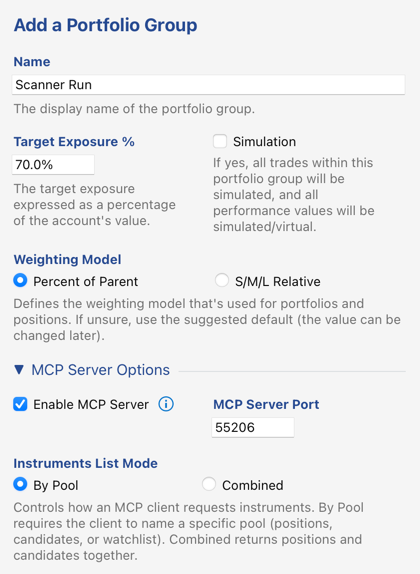
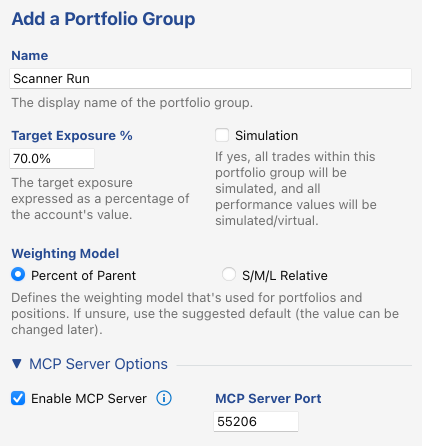
Updated skills and documentation

Changed region(s): [[0.031, 0.0874, 0.9595, 0.7578], [0.0, 0.787, 0.8667, 0.991], [0.031, 0.0291, 0.4643, 0.0583]]

diff --git a/doc/rating-loop/rating-loop.md b/doc/rating-loop/rating-loop.md
@@ -27,9 +27,7 @@ Options worth noting:
 
 - **Simulation** — all trades in this group are simulated. 
 - **Enable MCP Server** on port `55206` — this is the server the agent connects to (must match `.mcp.json`).
-- **Instruments List Mode: Combined** — the agent's `list_instruments` call returns positions and candidates together.
 - **Arm Ratings** — allows the agent's submitted ratings to actually drive target weights and close policies.
-- **Auto Delta Order Submission** is on. When on for a simulated portfolio group, delta orders are auto-executed (simulated at the current bid/ask price, honoring slippage as configured below).
 
 ## 2. Add the portfolios
 
@@ -60,9 +58,9 @@ Setting the Default Chart Range (left) to **5 days (15 min resolution)** gives t
 **Enable Rebalancing Orders** is off - we only buy and sell full positions; we don't rebalance/adjust open positions. **Trade on Adjust Ratings** is off. Buy/adjust is too weak a signal (or so we assume). **Force Trade on Strong Ratings** must be off. If it were on, InvMon would trade any Strong Buy or Strong Sell rating, even if all portfolio target slots are already filled. 
 
 
-### Order type, size & limit calculation
+### Order creation
 
-![Order Type, Size & Limit Calculation](assets/070-order-type.png)
+![Order Creation](assets/070-order-type.png)
 
 Defaults are fine here: adaptive orders, a 0.5% slippage cap, and trading restricted to regular trading hours. Slippage is relevant for simulation mode (will be used to calculate the estimated trade price - adjust the slippage to make the simulation more or less conservative in terms of achieved execution prices). The order type is not relevant for simulations.
 
@@ -72,11 +70,11 @@ Defaults are fine here: adaptive orders, a 0.5% slippage cap, and trading restri
 
 These policies close positions automatically and require an active TWS connection. The two **(MCP)** policies are what make the agent's ratings actionable: **Close on Neutral** and **Close on Counter-Rating** close a position when the agent downgrades it to Neutral or rates it against the position's direction. **EOD Auto-Close** flattens remaining positions 20 minutes before the session ends — this setup is intra-day.
 
-### Autonomous trading gates
+### Order execution
 
-![Autonomous Trading Gates](assets/090-autonomous-trading-gates.png)
+![Order Execution](assets/090-autonomous-trading-gates.png)
 
-Sanity limits every automatically created order must pass (fresh quote, tight spread, limited price deviation and exposure overshoot). **Hard Gates** is an important option for simulations - with the option on, if a gate fails, no delta order is created and no execution results. The autonomous-trading on/off switches themselves live in the group's *Targets & Rebalancing* dialog (step 1).
+**Auto-Submit Delta Orders in Simulation Mode** is on: the simulated group's delta orders are executed as soon as they are created (simulated at the current bid/ask price, honoring the slippage configured above). The fields below it are sanity limits a live order would have to pass before being transmitted (fresh quote, tight spread, limited price deviation). **Enforce Gates at Order Creation** is an important option for simulations - with the option on, if a gate fails, no delta order is created and no execution results.
 
 > Failing gates are recorded on their respective instrument. Instruments with continuously failing gates are basically untradable (in a timely fashion) under current market conditions. Consecutive runs of the market scanner will recycle those first.
 
@@ -84,8 +82,8 @@ Sanity limits every automatically created order must pass (fresh quote, tight sp
 
 ![MCP Server Options](assets/100-mcp-options.png)
 
-- **List Limit 10** — caps how many instruments `list_instruments` returns per call, keeping the agent's research fan-out bounded. In **Combined** mode (see above), `list_instruments` will return all of the portfolio's positions plus up to this number of candidates.
-- **Find Instruments Using Scanner** — a `list_instruments` call triggers the portfolios' saved market scanners first, so the agent always rates a fresh candidate set (see next step).
+- **List Limit 10** — caps how many instruments `list_instruments` returns per call, keeping the agent's research fan-out bounded. Called without a pool, as this agent does, `list_instruments` returns all of the portfolio's positions plus up to this number of candidates.
+- **Trigger Scanner** — a `list_instruments` call triggers the portfolios' saved market scanners first, so the agent always rates a fresh candidate set (see next step).
 - **Random List Order** — shuffles the returned list, a minor feature, potentially lowering rating bias.
 
 ## 4. Configure the market scanners
@@ -98,7 +96,7 @@ Each portfolio gets an IB market scanner that supplies its candidates: *Add from
 
 Both scan US *Listed/NASDAQ* corporate stocks by **Top %**, filtered to liquid names (average volume ≥ 2,000,000) that are shortable (shortable shares ≥ 2000), capped at 10 results with **Replace Existing** so the candidate pool rotates instead of growing. The only difference is the sort direction (the arrow next to *Variable*): descending for `Long` (top gainers), ascending for `Short` (top losers).
 
-**Don't run scanner – only save changes** stores the configuration without running it — the scans are executed later by the MCP server (via *Find Instruments Using Scanner*) whenever the agent lists instruments.
+**Don't run scanner – only save changes** stores the configuration without running it — the scans are executed later by the MCP server (via *Trigger Scanner*) whenever the agent lists instruments.
 
 ## 5. Run the agent
 

diff --git a/doc/market-scanner/market-scanner.md b/doc/market-scanner/market-scanner.md
@@ -28,7 +28,6 @@ Make a new portfolio group *just for scanning*. In the Portfolios panel, add a n
 ![Add a Portfolio Group](assets/010-add-portfolio-group.png)
 
 - **Enable MCP Server** on port `55206` — this is the little local connection your AI assistant talks to. Keep the port matching the one in this repo's `.mcp.json`.
-- **Instruments List Mode: By Pool** — the important one. The skill needs to address the *watchlist* by name, which only *By Pool* mode allows. In *Combined* mode there's no separate watchlist to point at, and the scan can't run.
 - **Simulation** — optional. Since the scan only records ratings and never trades, you don't need it; turn it on if you'd simply rather keep the whole group sandboxed.
 
 
@@ -58,7 +57,7 @@ Run the scan in the evening and it happily rates on the previous day's close ins
 ![MCP Server Options](assets/040-mcp-options.png)
 
 - **List Limit 10** — this is our batch size, the "10 at a time" from the top. It caps the watchlist at 10 names, and it's the size the scanner trims back to between bands. IB tops out around 50 rows per scan anyway (that's the whole reason for sweeping band by band), so 10 sits comfortably under the ceiling — and a small batch keeps your TWS market-data lines free, since every visible watchlist name uses one.
-- **Find Instruments Using Scanner** — must be **off**. Left on, InvMon would re-run the scanner behind the AI's back and wipe out the batch it just built. The skill checks for this and refuses to run rather than quietly corrupt the sweep.
+- **Trigger Scanner** — must be **off**. Left on, InvMon would re-run the scanner behind the AI's back and wipe out the batch it just built. The skill checks for this and refuses to run rather than quietly corrupt the sweep.
 - **Random List Order** — optional; shuffles each batch, which can take a little bias out of the ratings.
 
 
@@ -126,14 +125,13 @@ Most hiccups are a setup step that isn't quite right, and the scan usually tells
 | What you see | What it means | What to do |
 |---|---|---|
 | `run_scanner is not available.` | Your plan doesn't include the market scanner. | Upgrade to a paid plan. |
-| `run_scanner requires 'Find Instruments Using Scanner' to be OFF…` | That option is on and would clobber each batch. | Turn it off in *MCP Server Options* (step 3). |
+| `run_scanner requires 'Trigger Scanner' to be OFF…` | That option is on and would clobber each batch. | Turn it off in *MCP Server Options* (step 3). |
 | `Account is not connected; cannot run the scanner.` | TWS isn't running or isn't connected. | Start TWS and confirm the account connects. |
 | `The account's provider does not support market scanning.` | The portfolio isn't pointed at an IB account. | Point the group at your IB account. |
 | `A scanner run is already in progress for this portfolio.` | A scan (manual or from a previous call) is still running. | Wait for it to finish, then re-run. |
 | `Portfolio not found; specify portfolioId or portfolioName…` | The group holds more than one portfolio. | Name the portfolio when you start the skill, or keep the group to one. |
 | `Scanner timed out after 60 seconds.` | IB didn't answer in time. | Usually a blip — check the TWS connection and re-run. |
 | `This tool call is currently limited to the watchlist pool.` | On your plan the set-aside tools only touch watchlist names. | Expected — the scan only ever touches the watchlist. If you see it, something aimed the tools elsewhere. |
-| The AI reports a missing `watchlist` pool | The group is in *Combined* list mode. | Switch **Instruments List Mode** to *By Pool* (step 1). |
 | Bands come back empty that shouldn't | Either a price filter got baked into the saved scan, or those names were cleared earlier this session. | Remove the base price filter (step 4). For the second cause, see below. |
 
 **Why a second run in the same session finds less.** Once the scanner clears a name out during a run, InvMon keeps it out for the rest of the session so a later band won't waste time re-rating something already dropped. Within one run that's exactly what you want. Across two runs it means the second one is working from a thinner universe — so **restart InvMon before a fresh scan**, or bring individual names back via *Restore Hidden Instrument…* (in the Delete menu).

diff --git a/.claude/skills/market-scanner/SKILL.md b/.claude/skills/market-scanner/SKILL.md
@@ -44,7 +44,6 @@ missing prerequisite.
     license includes scanner access.
 - **An IB account, connected** — the sweep runs IB market scans; other providers
     do not support scanning.
-- **By-Pool MCP list mode** — so the `watchlist` pool is addressable.
 - **Watchlist market scanner configured** (in the portfolio's scanner
     settings): the base query the sweep builds on — scan code
     (e.g. *Top % Gainers*), location (e.g. NASDAQ / `STK.US.MAJOR`), and base
@@ -52,7 +51,7 @@ missing prerequisite.
     layered on top of this per batch.
 - **Watchlist replace mode ON** — each new band trims the previous band's
     non-hidden names down to the pool's target size; hidden winners survive.
-- **"Find Instruments Using Scanner" OFF** — otherwise a later
+- **"Trigger Scanner" OFF** — otherwise a later
     `list_instruments` call would re-scan with the base config and clobber your
     batch. `run_scanner` refuses to run while this is on.
 - **Watchlist scanner count ≈ your batch size** (e.g. 40, or less if TWS
@@ -67,7 +66,8 @@ missing prerequisite.
 
 Reused from `rating-loop` (see that skill for full detail):
 
-- `list_instruments(pool, portfolioId?, portfolioName?)` — hidden instruments
+- `list_instruments(pool?, portfolioId?, portfolioName?)` — pass `pool: "watchlist"`
+  for the watchlist. Hidden instruments
   are **excluded**, so your set-aside winners never come back in a listing. You
   mostly won't need this during the sweep (see below).
 - `get_price_history(instrumentId, period?)` — historical series; a short
@@ -93,7 +93,7 @@ New for this skill:
     portfolio.
   - Returns `{pool, priceAbove?, priceBelow?, count, instruments:[...]}`, or an
     `{error}`: no scanner license, account not connected, the account's provider
-    does not support scanning, "Find Instruments Using Scanner" is on, a scan is
+    does not support scanning, "Trigger Scanner" is on, a scan is
     already running, ambiguous portfolio, or scanner timeout.
   - **Work the loop off this return** — the `instruments` array *is* your batch.
     You do not need a separate `list_instruments` call during the sweep.

diff --git a/.claude/skills/portfolio-rating/SKILL.md b/.claude/skills/portfolio-rating/SKILL.md
@@ -29,14 +29,13 @@ exactly as described in `rating-loop`; the essentials:
 - `list_portfolios()` - returns the portfolios of this server's portfolio group:
   `{id, name}` per portfolio.
 
-- `list_instruments(portfolioId?, portfolioName?)` - the instruments to analyze.
+- `list_instruments(portfolioId?, portfolioName?, pool?)` - the instruments to analyze.
   Always pass the portfolio for this skill (see **Arguments**); without one the tool
   returns instruments across *every* portfolio in the group, which is not what this
   skill is for. `portfolioName` is the simple portfolio name, unique within the
-  group. In **Combined** MCP list mode positions and candidates come back together;
-  in **By Pool** mode the tool takes a required `pool` argument (`positions`,
-  `candidates` or `watchlist`) - rate the pool the user named, `positions` by
-  default.
+  group. Without `pool`, positions and candidates come back together; with it
+  (`positions`, `candidates` or `watchlist`), only that pool. If the user named a
+  pool, pass it; otherwise leave `pool` out.
 
   Returned per instrument: `id, symbol, securityName, instrumentType, currency,
   exchange, note, lastUpdate, priceTarget, priceTargetDate, rating, lastTradePrice,
@@ -103,8 +102,8 @@ is the display label for the same value (`Buy/adjust` reads back as `Buy Adjust`
   research - this skill rates one portfolio, and guessing wastes a full research
   pass on the wrong set. The user may answer "all", in which case rate every
   portfolio in the group and keep the summary grouped per portfolio.
-- The user may also name a **pool** (positions, candidates, watchlist) in a By-Pool
-  group. Default to the positions pool.
+- The user may also name a **pool** (positions, candidates, watchlist); pass it as
+  `pool`. Without one, rate positions and candidates together.
 
 
 ## Workflow

diff --git a/.claude/skills/portfolio-sentiment/SKILL.md b/.claude/skills/portfolio-sentiment/SKILL.md
@@ -31,13 +31,12 @@ doesn't lean.
 - `list_portfolios()` - returns `{id, name}` per portfolio in this server's portfolio
   group. Use it to resolve the portfolio when none was named.
 
-- `list_instruments(portfolioId?, portfolioName?)` - the portfolio's instruments;
+- `list_instruments(portfolioId?, portfolioName?, pool?)` - the portfolio's instruments;
   this is what you derive the market from. Each entry carries `symbol`,
   `securityName`, `instrumentType`, `currency`, `exchange`, `lastTradePrice` and
   `lastTradeTimestamp`, which between them tell you the venue, currency and asset-class
-  mix. In **By Pool** MCP list mode the tool takes a required `pool` argument
-  (`positions`, `candidates` or `watchlist`); read `positions` for actual exposure,
-  and fall back to `candidates` when the portfolio holds no positions yet.
+  mix. Pass `pool: "positions"` to read the actual exposure, and fall back to
+  `pool: "candidates"` when the portfolio holds no positions yet.
 
 - `get_price_history(instrumentId, period?)` - optional here. A short `period`
   (`1d`-`5d`) on two or three of the portfolio's largest names is a quick sanity

diff --git a/.claude/skills/rating-loop/SKILL.md b/.claude/skills/rating-loop/SKILL.md
@@ -34,9 +34,9 @@ The InvMon MCP server exposes the four tools relevant to this skill:
     that portfolio.
   - `portfolioName` is the simple portfolio name (unique within this server's
     portfolio group).
-  - This skill assumes the portfolio group is in **Combined** MCP list mode, in
-    which the tool has no `pool` argument and returns all positions and
-    candidates together - everything that is to be rated.
+  - Call it without the optional `pool` argument: it then returns all positions
+    and candidates together - everything that is to be rated. (A `pool` argument
+    would restrict the list to a single pool.)
 
 - `get_price_history(instrumentId, period?)` - historical price series. Returns
   an envelope `{instrumentId, symbol, currency, historyCode, intervalSizeMs,
